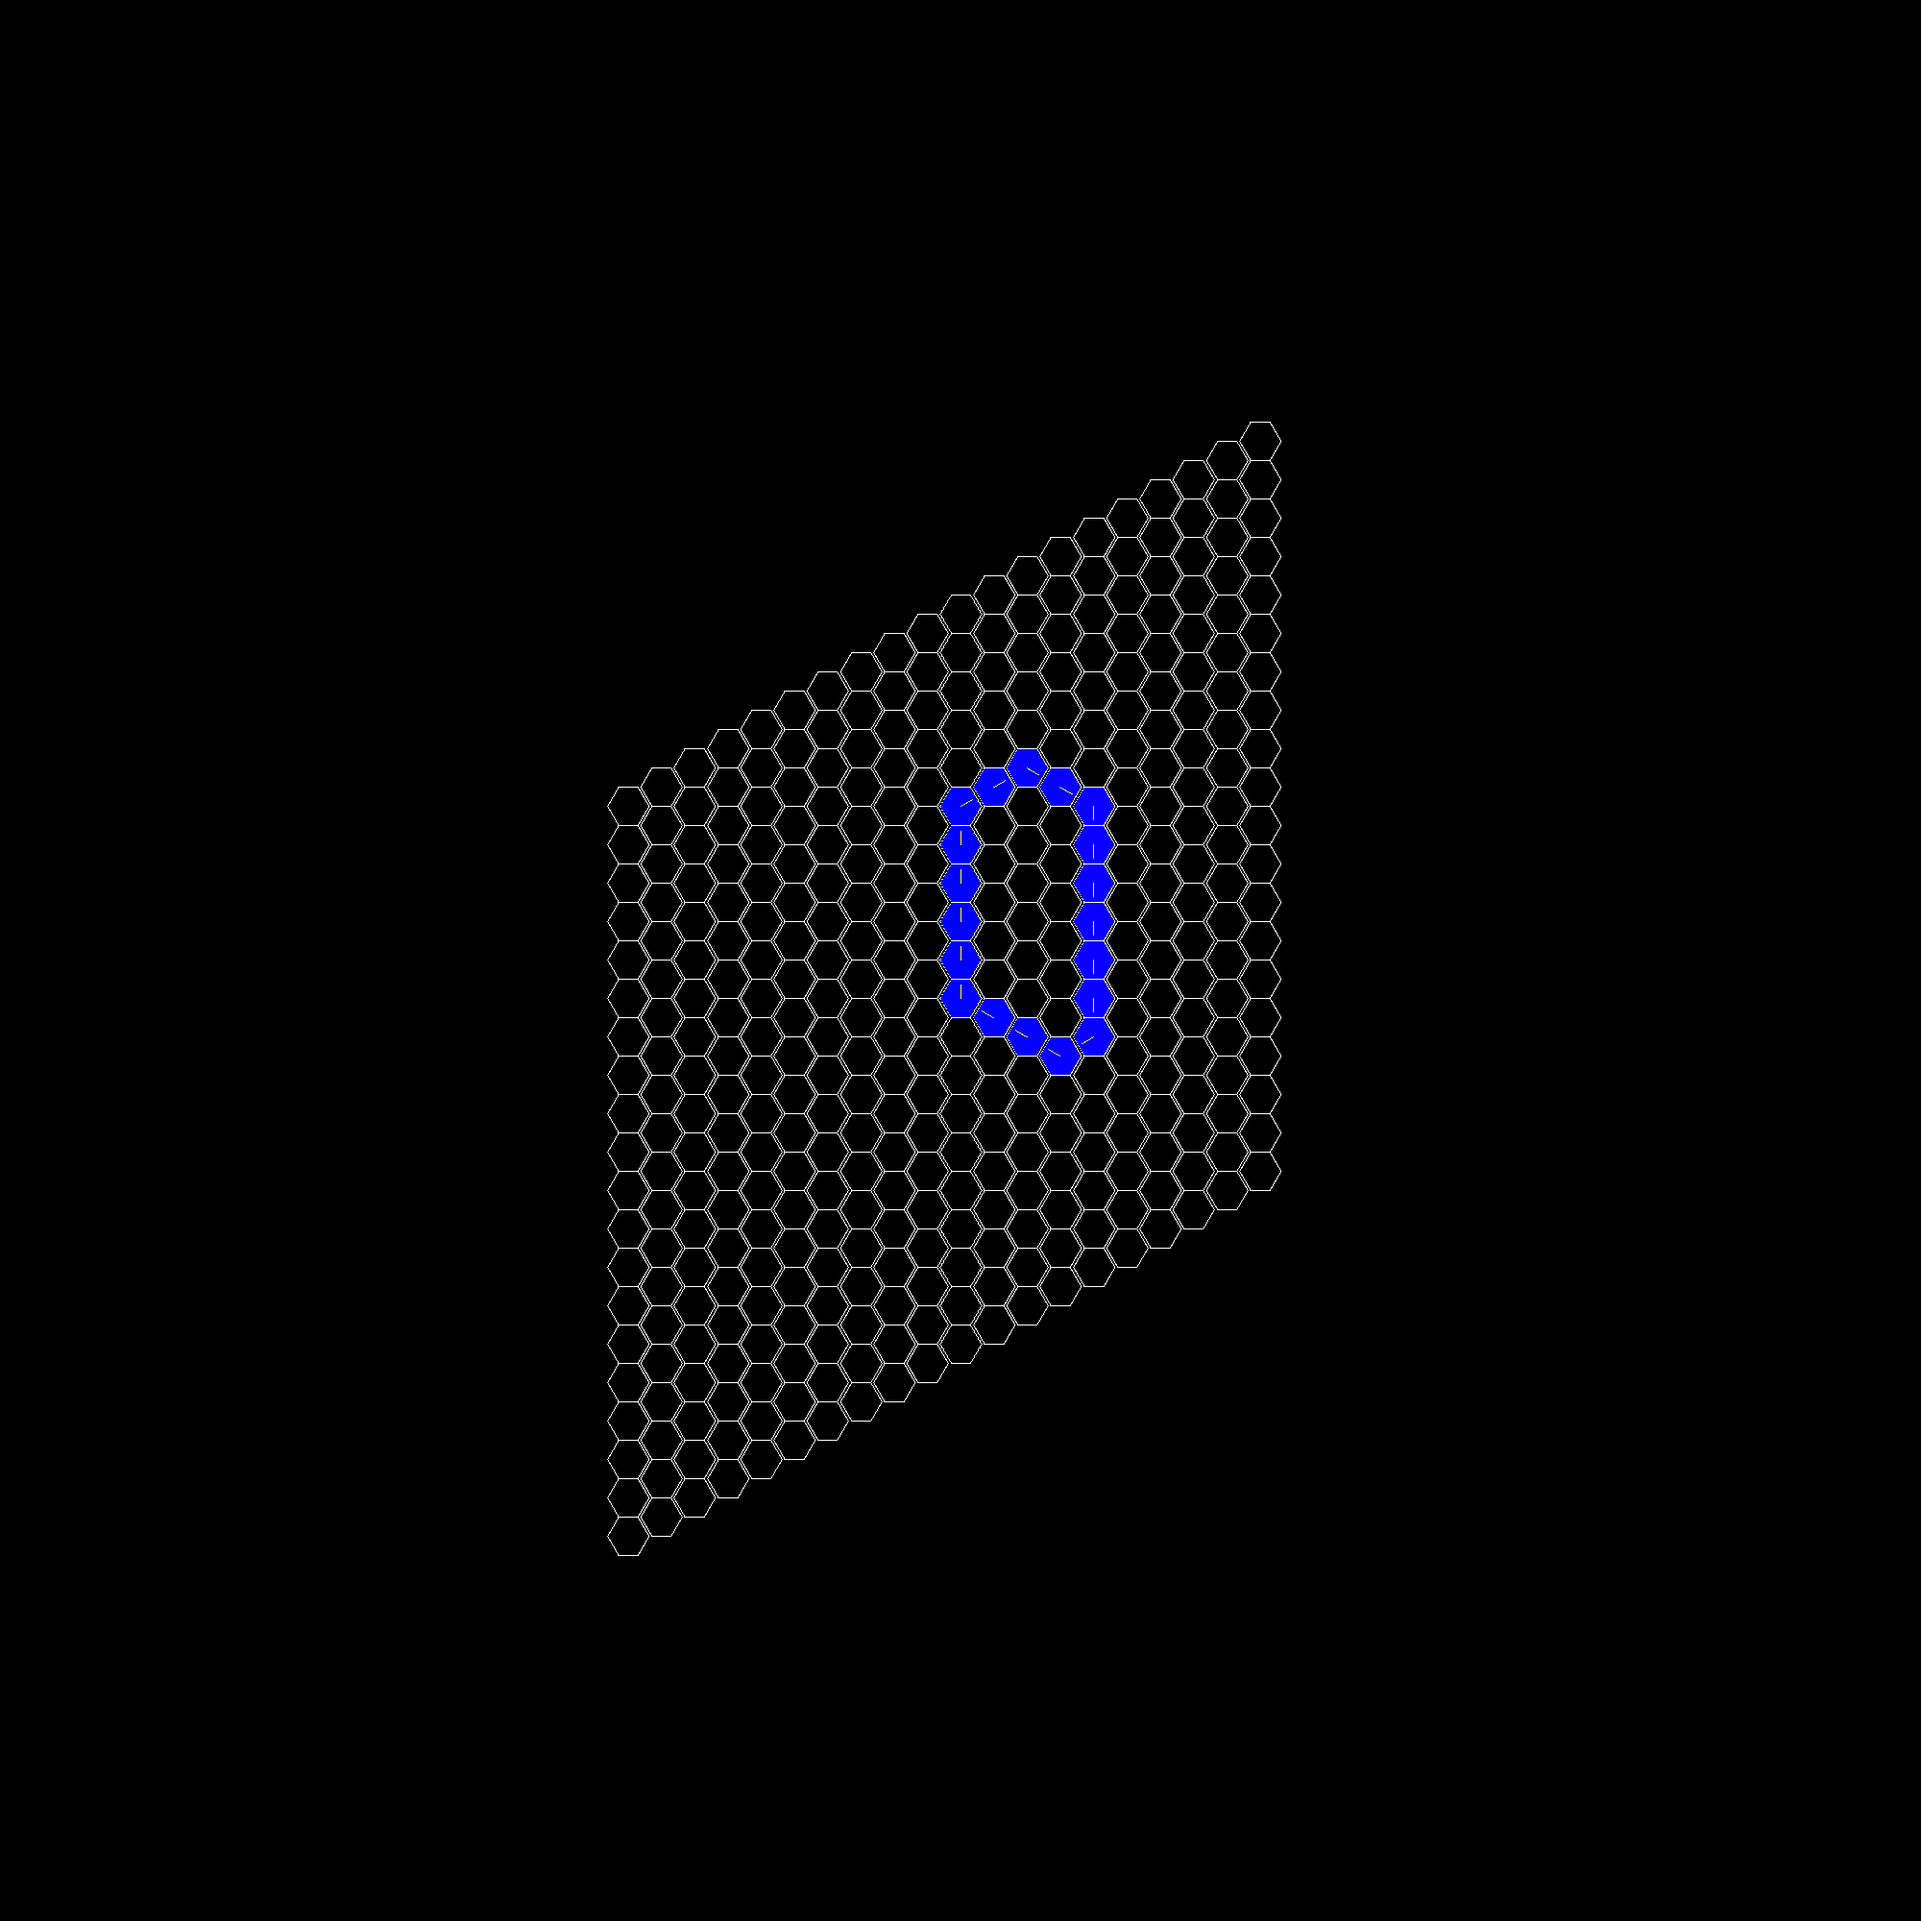
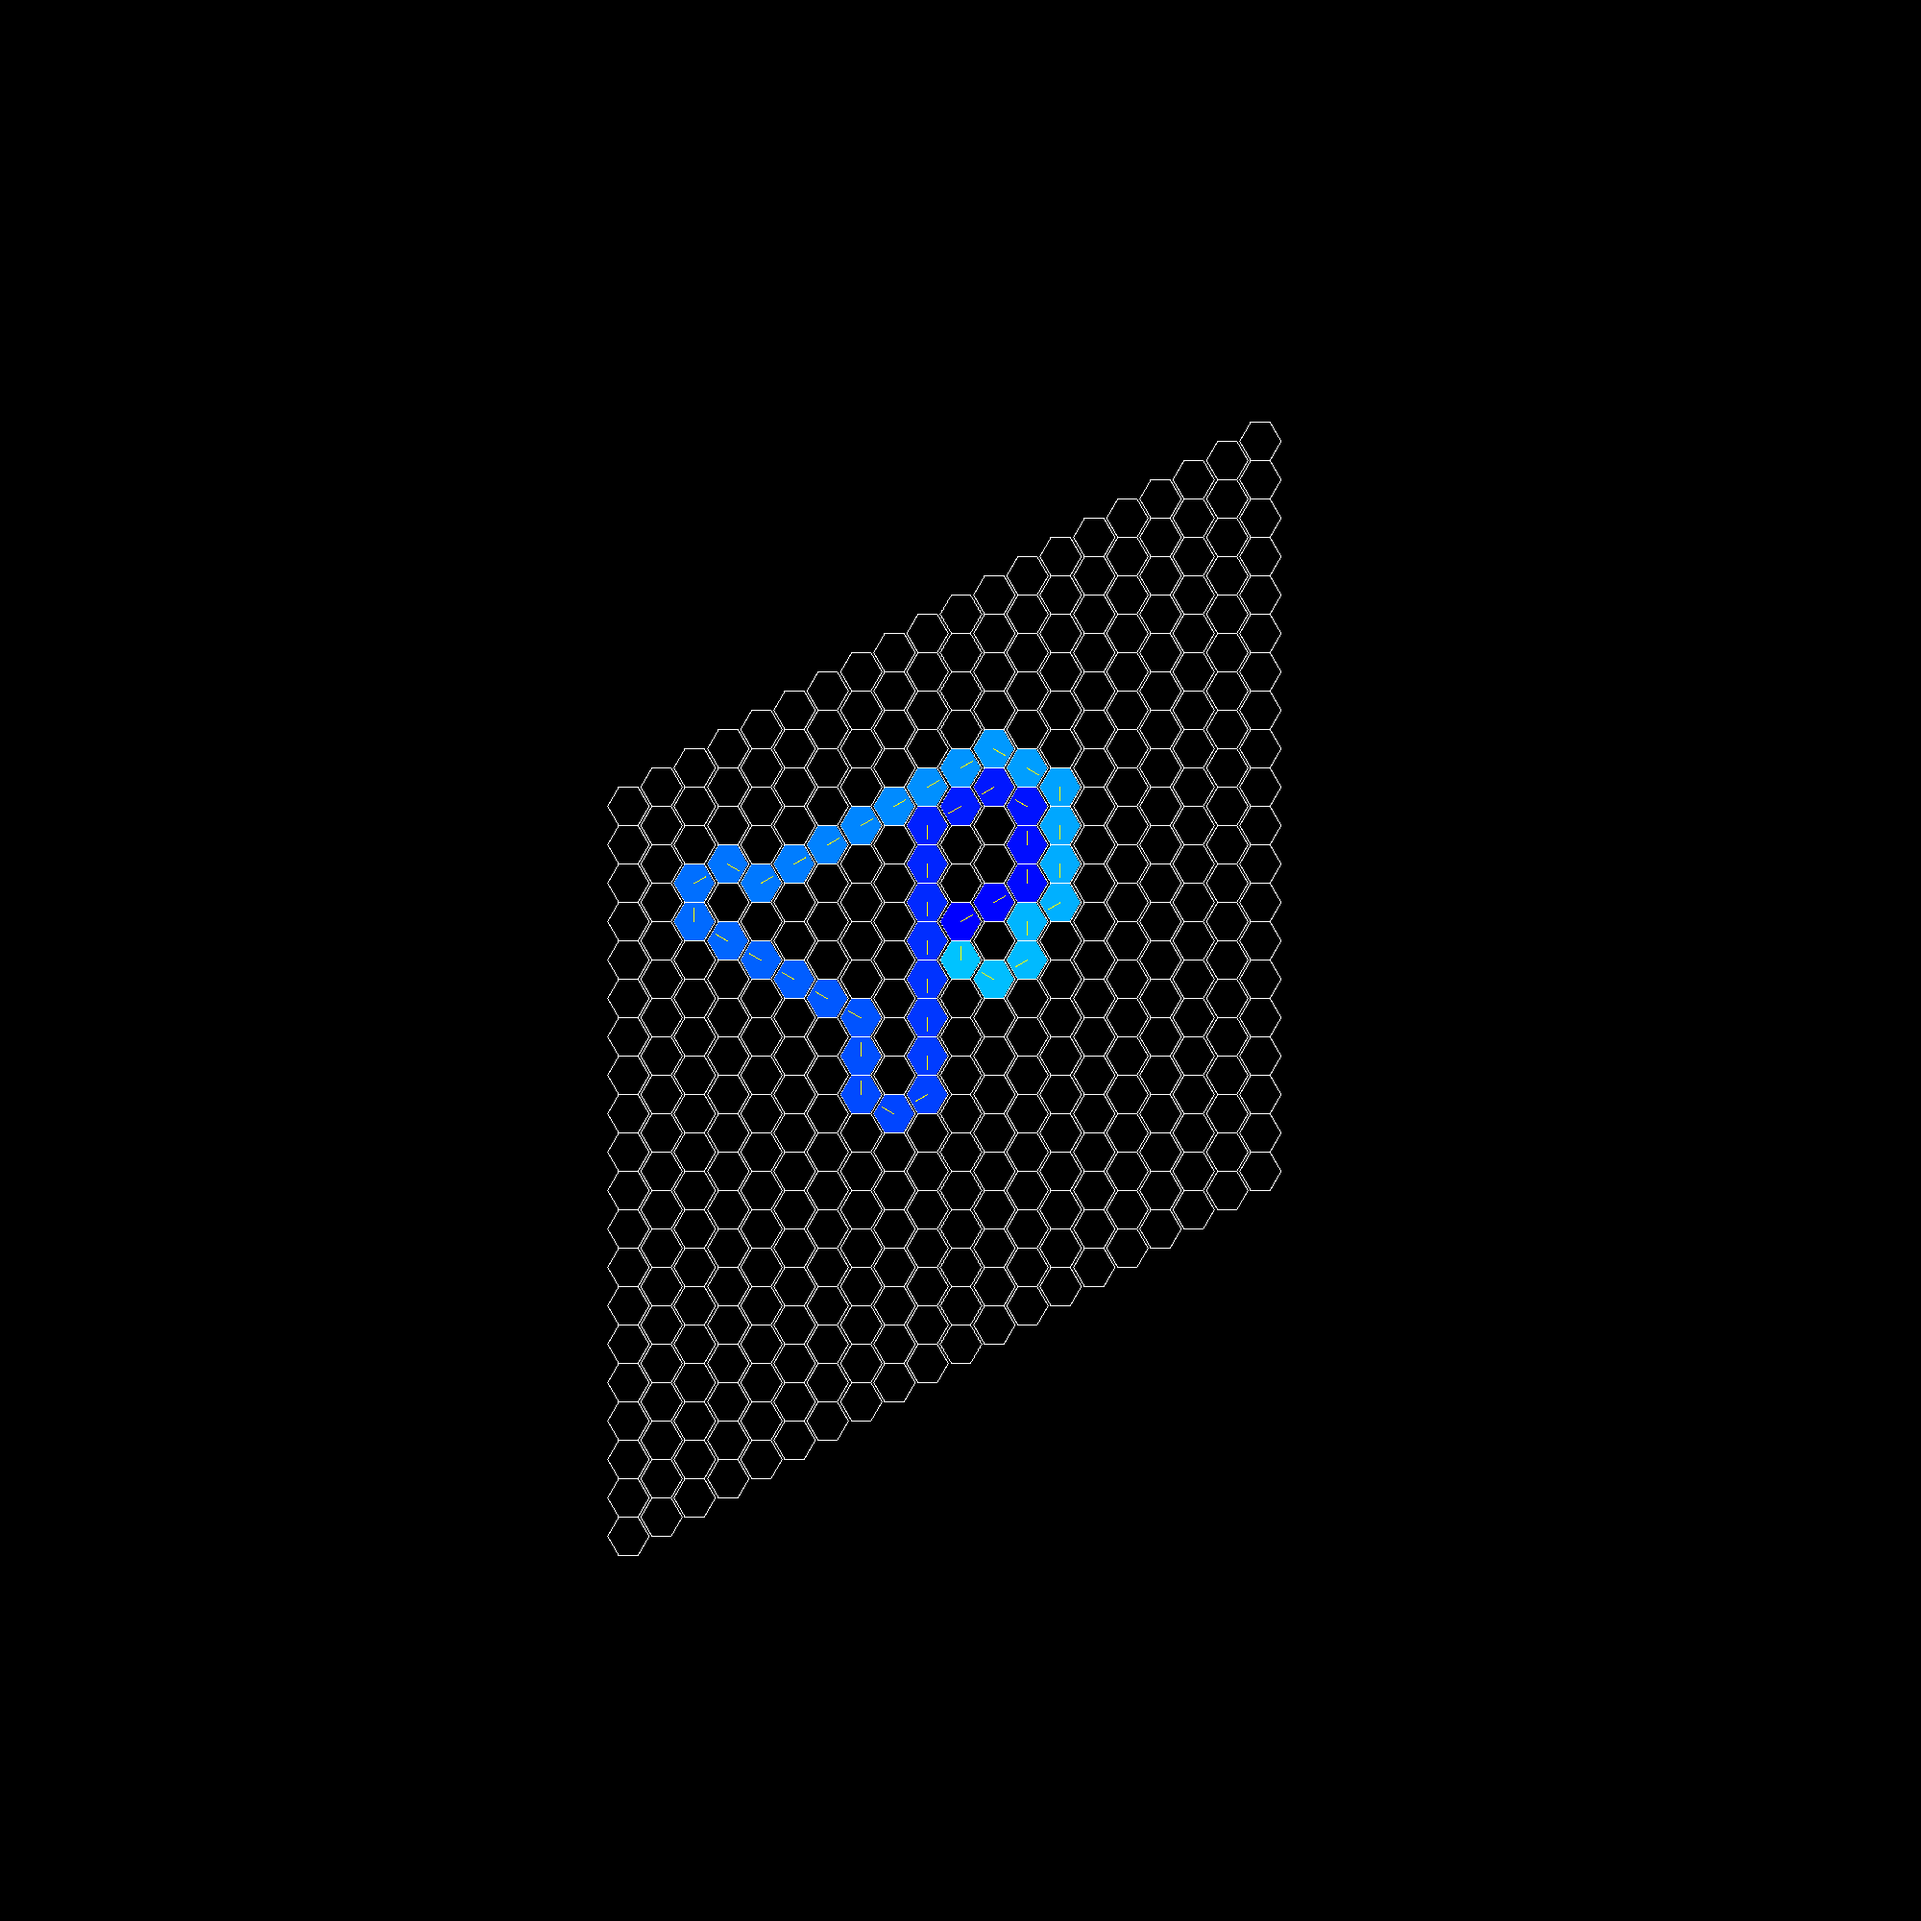
Map gen

Changed region(s): [[0.341, 0.372, 0.589, 0.589]]

diff --git a/Racebile/racebile.py b/Racebile/racebile.py
@@ -3,6 +3,8 @@ from math import cos, sin, pi
 import random
 from PIL import Image
 
+import heapq
+
 # Setup
 width = 2000
 height = 2000
@@ -36,28 +38,6 @@ def draw_hex_dir(m, xi, yi, d, scale, color):
     for k in range(int(scale * 1.5)):
         rx,ry = cos(d*pi/3+pi/6)*k, sin(d*pi/3+pi/6)*k
         m[int(xi+rx)][int(yi+ry)] = color
-
-
-game_map = [
-    (0,0,1),
-    (0,1,1),
-    (0,2,1),
-    (0,3,1),
-    (0,4,0),
-    (1,4,0),
-    (2,4,5),
-    (3,3,5),
-    (4,2,4),
-    (4,1,4),
-    (4,0,4),
-    (4,-1,4),
-    (4,-2,4),
-    (4,-3,4),
-    (4,-4,3),
-    (3,-4,2),
-    (2,-3,2),
-    (1,-2,2),
-    (0,-1,1)]
 
 def step_dir(x,y,d):
     if d == 0:
@@ -97,35 +77,71 @@ def gen_map_from_dirs(dirs):
         x,y = step_dir(x,y,d)
     return gm
 
-def extend_dirs_randomly(d):
-    dirs = list(d)
-    index = random.randint(0,len(dirs)-1)
+def bfs(x0,y0,d0,x1,y1,d1,exclude=set()):
+    stk = [(0,x0,y0,d0,[])]
+    visited = set()
+    while len(stk) > 0:
+        s,x,y,d,r = heapq.heappop(stk)
 
-    if index+2 < len(dirs) and dirs[index] == dirs[index+1] and dirs[index+1] == dirs[index+2]:
-        if random.randint(0,1) == 0:
-            dirs = dirs[:index] + ([(dirs[index]-1)%6, (dirs[index])%6, (dirs[index])%6, (dirs[index]+1)%6]) + dirs[index+3:]
-        else:
-            dirs = dirs[:index] + ([(dirs[index]+1)%6, (dirs[index])%6, (dirs[index])%6, (dirs[index]-1)%6]) + dirs[index+3:]
-    elif (dirs[index]+3)%6 in dirs:
-        dirs = dirs[:index] + [dirs[index]] * 2 + dirs[index+1:]
-        other = list(filter(lambda x: x[1] == (dirs[index]+3)%6, enumerate(dirs)))
-        index = random.randint(0,len(other)-1)
-        index, value = other[index]
-        dirs = dirs[:index] + [value]*2 + dirs[index+1:]
+        if len(stk) > 0 and (x,y) in exclude or (x,y) in r:
+            continue
 
-    return dirs
+        if not (-100 <= x <= 100 or -100 <= y <= 100):
+            continue
+
+        if (x,y) == (x1,y1) and (d - d1)%6 == 0:
+            print ("success")
+            return r[:-1] + [(x1,y1,d1)]
+        if (x,y,d) in visited:
+            continue
+        visited.add((x,y,d))
+
+        nx, ny = step_dir(x,y,d)
+        heapq.heappush(stk,(s+1, nx, ny, (d+1)%6, r + [(nx, ny, (d+1)%6)]))
+        heapq.heappush(stk,(s+1, nx, ny, d, r + [(nx, ny, d)]))
+        heapq.heappush(stk,(s+1, nx, ny, (d-1)%6, r + [(nx, ny, (d-1)%6)]))
+    return []
+
+# def extend_dirs_randomly(d):
+#     dirs = list(d)
+#     index = random.randint(0,len(dirs)-1)
+
+#     if index+2 < len(dirs) and dirs[index] == dirs[index+1] and dirs[index+1] == dirs[index+2]:
+#         if random.randint(0,1) == 0:
+#             dirs = dirs[:index] + ([(dirs[index]-1)%6, (dirs[index])%6, (dirs[index])%6, (dirs[index]+1)%6]) + dirs[index+3:]
+#         else:
+#             dirs = dirs[:index] + ([(dirs[index]+1)%6, (dirs[index])%6, (dirs[index])%6, (dirs[index]-1)%6]) + dirs[index+3:]
+#     elif (dirs[index]+3)%6 in dirs:
+#         dirs = dirs[:index] + [dirs[index]] * 2 + dirs[index+1:]
+#         other = list(filter(lambda x: x[1] == (dirs[index]+3)%6, enumerate(dirs)))
+#         index = random.randint(0,len(other)-1)
+#         index, value = other[index]
+#         dirs = dirs[:index] + [value]*2 + dirs[index+1:]
+
+#     return dirs
 
 def gen_map():
-    dirs = []
-    for i in range(6):
-        dirs.append(i)
-        dirs.append(i)
-        dirs.append(i)
+    x,y,d = 0,0,1
+    l = []
 
-    for i in range(30):
-        dirs = extend_dirs_randomly(dirs)
+    success = 0
+    while success < 3:
+        nx = random.randint(-10,10)
+        ny = random.randint(-10,10)
+        nd = random.randint(0,5)
 
-    return gen_map_from_dirs(dirs)
+        nl = bfs(x,y,d,nx,ny,nd,set(map(lambda x: (x[0], x[1]),l)))
+        if nl == []:
+            continue
+
+        l += nl
+        x,y,d = nx, ny, nd
+
+        success += 1
+
+    l += bfs(x,y,d,0,0,1,set(map(lambda x: (x[0], x[1]),l)))
+
+    return l
 
 
 game_map = gen_map()
@@ -155,7 +171,7 @@ for iters,(i,j,d) in enumerate(game_map):
         continue
 
     # color = (255,255,0)
-    color = (int(i / 100 * 255), int((j + 100) / 200) * 255, int(iters / len(game_map) * 255))
+    color = (0, int(iters / len(game_map) * 200), 255)
 
     draw_filled_hex(m, xi, yi, scale, color)
 
